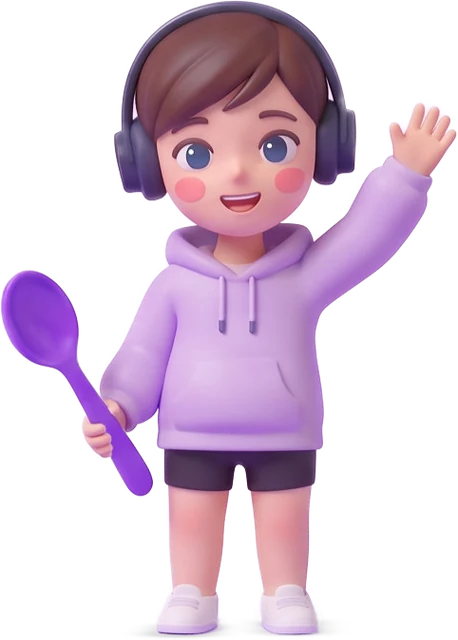
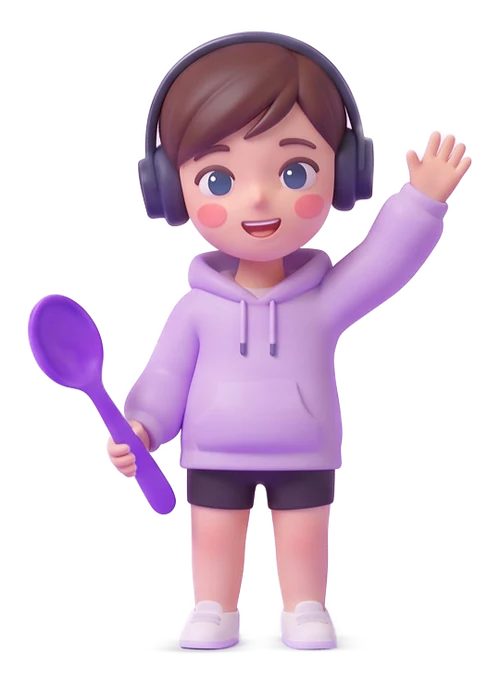
LP: pés da Pilly no hero e sombra da pose sentada sem corte

diff --git a/LP/landing.html b/LP/landing.html
@@ -71,7 +71,7 @@ nav{
 .btn-ghost:hover{color:var(--violet);text-decoration-color:var(--violet);}
 
 /* ── HERO ── */
-.hero{position:relative;min-height:100svh;padding-top:64px;overflow:hidden;display:flex;align-items:center;}
+.hero{position:relative;min-height:100svh;padding-top:64px;padding-bottom:48px;overflow:hidden;display:flex;align-items:center;}
 .squiggle{position:absolute;left:0;right:0;bottom:6%;width:100%;height:42%;z-index:0;pointer-events:none;opacity:.55;}
 .squiggle path{fill:none;stroke:var(--violet);stroke-width:15;stroke-linecap:round;stroke-linejoin:round;}
 .hero-grid{position:relative;z-index:1;display:grid;grid-template-columns:minmax(0,1.15fr) minmax(0,.85fr);gap:clamp(24px,5vw,72px);align-items:center;width:100%;padding-top:48px;}
@@ -82,11 +82,11 @@ nav{
 .hero-note{margin-top:22px;font-size:14px;color:var(--muted);max-width:480px;display:flex;flex-direction:column;gap:6px;}
 .hero-note b{color:var(--ink);font-weight:700;}
 
-.stage{position:relative;height:min(660px,80svh);display:flex;justify-content:center;align-items:flex-start;margin-bottom:-120px;}
+.stage{position:relative;height:min(660px,80svh);display:flex;justify-content:center;align-items:flex-start;margin-bottom:0;}
 .stage::before{content:'';position:absolute;left:50%;top:7%;width:min(420px,84%);height:88%;border-radius:44px;transform:translateX(-46%) rotate(5deg);background:var(--violet);}
 .phone{position:relative;z-index:2;width:clamp(240px,23vw,300px);background:#14141a;border-radius:36px;padding:7px;border:1px solid #34343f;box-shadow:0 36px 70px rgba(0,0,0,.45),0 10px 22px rgba(0,0,0,.35);transform:rotate(-2deg);}
 .pilly{position:absolute;z-index:3;pointer-events:none;height:auto;display:block;}
-.pilly-hero{left:-9%;bottom:30px;width:min(300px,64%);}
+.pilly-hero{left:-12%;bottom:0;width:min(340px,72%);}
 .phone-inner{background:#0e0a1f;border-radius:30px;overflow:hidden;height:600px;display:flex;flex-direction:column;}
 .phone-notch{height:26px;display:flex;align-items:center;justify-content:center;flex-shrink:0;}
 .phone-notch i{width:70px;height:7px;border-radius:99px;background:#000;}
@@ -153,7 +153,7 @@ h2{font-size:clamp(32px,4.8vw,60px);font-weight:700;line-height:1.06;letter-spac
 .pain svg{width:28px;height:28px;stroke:var(--violet);fill:none;stroke-width:1.7;stroke-linecap:round;stroke-linejoin:round;margin-top:2px;}
 .pain h3{font-size:clamp(20px,2.2vw,26px);font-weight:600;line-height:1.25;letter-spacing:-.015em;color:var(--ink);margin-bottom:10px;}
 .pain p{font-size:16px;color:var(--muted);line-height:1.7;max-width:520px;}
-.pilly-problem{position:static;width:min(300px,72%);margin:28px 0 0 -24px;}
+.pilly-problem{position:static;width:min(340px,80%);margin:20px 0 0 -30px;}
 
 /* colheres */
 .spoons{background:var(--violet);color:#fff;overflow:hidden;}
@@ -265,14 +265,14 @@ h2{font-size:clamp(32px,4.8vw,60px);font-weight:700;line-height:1.06;letter-spac
 .tag:hover{border-color:var(--violet);color:var(--violet);}
 .tag.hl{background:var(--violet);border-color:var(--violet);color:#fff;}
 .tag.hl:hover{background:var(--royal);border-color:var(--royal);color:#fff;}
-.pilly-aud{position:static;width:min(300px,70%);margin:24px 0 0 -18px;}
+.pilly-aud{position:static;width:min(400px,92%);margin:12px 0 0 -30px;}
 
 /* form */
 .form-sec{padding:clamp(72px,10vw,128px) 0;}
 .form-grid{display:grid;grid-template-columns:minmax(0,5fr) minmax(0,6fr);gap:clamp(32px,6vw,88px);align-items:start;}
 .form-fine{margin-top:26px;font-size:14px;color:var(--muted);max-width:420px;line-height:1.6;}
 .form-fine button{background:none;border:none;font:inherit;font-weight:700;color:var(--royal);text-decoration:underline;text-underline-offset:3px;cursor:pointer;padding:0;}
-.pilly-form{position:static;width:min(240px,60%);margin:18px 0 0 -10px;}
+.pilly-form{position:static;width:min(270px,64%);margin:14px 0 0 -14px;}
 .form-wrap{background:#fff;color:var(--ink);border-radius:28px;padding:clamp(24px,4vw,44px);border:1px solid var(--line);box-shadow:0 30px 60px rgba(90,0,204,.18),0 8px 16px rgba(90,0,204,.1);}
 .field{margin-bottom:20px;}
 label{display:block;font-size:14px;font-weight:600;color:var(--ink);margin-bottom:8px;}
@@ -358,9 +358,9 @@ footer .heart{width:14px;height:14px;fill:var(--violet-lt);vertical-align:-1px;}
 @media(max-width:900px){
   .hero{min-height:0;display:block;}
   .hero-grid{grid-template-columns:1fr;padding-top:36px;gap:20px;}
-  .stage{height:540px;margin-bottom:0;}
+  .stage{height:600px;margin-bottom:0;}
   .phone-inner{height:560px;}
-  .pilly-hero{left:-2%;bottom:60px;width:min(230px,52%);}
+  .pilly-hero{left:-4%;bottom:10px;width:min(260px,60%);}
   .float-week{right:-2%;bottom:auto;top:330px;width:150px;}
   .float-sos{right:-2%;top:70px;width:128px;}
   .split,.form-grid{grid-template-columns:1fr;}
@@ -380,7 +380,7 @@ footer .heart{width:14px;height:14px;fill:var(--violet-lt);vertical-align:-1px;}
   .spoon-grid{gap:6px;}
   .demo-top{flex-direction:column;align-items:flex-start;}
   .demo-status{text-align:left;max-width:none;min-height:0;}
-  .stage{height:480px;}
+  .stage{height:590px;}
   .float-week{display:none;}
   .cta-group .btn-primary{width:100%;justify-content:center;}
 }
@@ -428,7 +428,7 @@ footer .heart{width:14px;height:14px;fill:var(--violet-lt);vertical-align:-1px;}
     </div>
 
     <div class="stage">
-      <img class="pilly pilly-hero" src="img/pilly-acena.webp" width="458" height="640" alt="Pilly, a mascote do Recarregue, acenando com uma colher na mão" fetchpriority="high">
+      <img class="pilly pilly-hero" src="img/pilly-acena.webp" width="500" height="680" alt="Pilly, a mascote do Recarregue, acenando com uma colher na mão" fetchpriority="high">
       <div class="phone" id="phone" aria-hidden="true">
         <div class="phone-inner">
           <div class="phone-notch"><i></i></div>
@@ -498,7 +498,7 @@ footer .heart{width:14px;height:14px;fill:var(--violet-lt);vertical-align:-1px;}
     <div class="sticky">
       <h2 class="sr">Quando cansa demais sem <em class="it">motivo aparente.</em></h2>
       <p class="lead sr">Não é frescura, não é falta de esforço. Seu sistema nervoso processa o mundo de um jeito diferente, e isso tem um custo real.</p>
-      <img class="pilly pilly-problem sr" src="img/pilly-cansada.webp" width="511" height="640" alt="Pilly cansada, arrastando uma colher cinza" loading="lazy">
+      <img class="pilly pilly-problem sr" src="img/pilly-cansada.webp" width="567" height="680" alt="Pilly cansada, arrastando uma colher cinza" loading="lazy">
     </div>
     <ol class="pains sr-group">
       <li class="pain">
@@ -665,7 +665,7 @@ footer .heart{width:14px;height:14px;fill:var(--violet-lt);vertical-align:-1px;}
     <div>
       <h2 class="sr">Se você se identificou, <em class="it">é para você.</em></h2>
       <p class="lead sr">Feito para qualquer neurodivergência. Diagnóstico ou não, o que importa é a experiência.</p>
-      <img class="pilly pilly-aud sr" src="img/pilly-sentada.webp" width="487" height="640" alt="Pilly sentada, pensativa, com uma colher no colo" loading="lazy">
+      <img class="pilly pilly-aud sr" src="img/pilly-sentada.webp" width="683" height="680" alt="Pilly sentada, pensativa, com uma colher no colo" loading="lazy">
     </div>
     <div class="tags sr-pop">
       <span class="tag hl">TEA (Transtorno do Espectro Autista)</span>
@@ -690,7 +690,7 @@ footer .heart{width:14px;height:14px;fill:var(--violet-lt);vertical-align:-1px;}
       <h2>Quero testar o <em class="it">Recarregue</em></h2>
       <p class="lead">Beta fechado · vagas limitadas · <strong>webapp para Android e iOS, em testes e sujeito a falhas</strong>. Preencha o formulário e entraremos em contato quando sua vaga estiver disponível.</p>
       <p class="form-fine">Usamos seu nome e e-mail só para enviar o convite. Você pode pedir remoção a qualquer momento. <button type="button" onclick="openPolicy()">Política de Privacidade</button></p>
-      <img class="pilly pilly-form" src="img/pilly-aponta.webp" width="348" height="640" alt="Pilly apontando para cima, animada" loading="lazy">
+      <img class="pilly pilly-form" src="img/pilly-aponta.webp" width="397" height="680" alt="Pilly apontando para cima, animada" loading="lazy">
     </div>
     <div class="form-wrap">
       <div id="form-inner">
